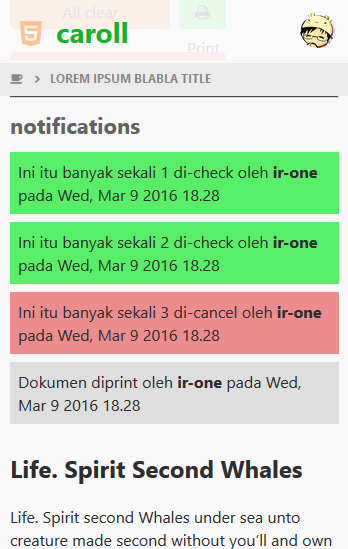
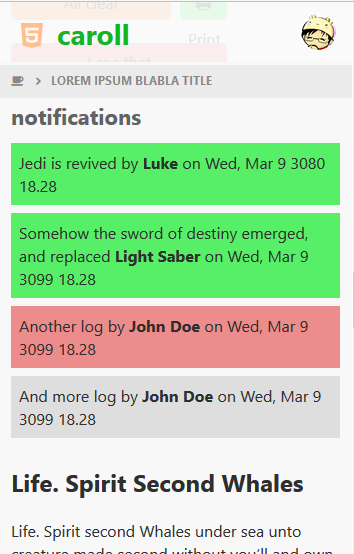
button color changes a bit

diff --git a/assets/sass/main.sass b/assets/sass/main.sass
@@ -145,35 +145,35 @@ input[type="radio"], input[type="checkbox"], a
 	// padding: 8px
 	border: 1px solid white
 	&.theme
-		color: $grey-dark
-		background-color: lighten($theme-color, 25%)
+		color: $white
+		background-color: lighten($theme-color, 10%)
 		&:hover
-			color: $white-min
-			background-color: lighten($theme-color, 10%)
+			color: $theme-color
+			background-color: lighten($theme-color, 25%)
 	&.orange
-		color: $grey-dark
-		background-color: lighten($orange, 25%)
+		color: $white
+		background-color: lighten($orange, 10%)
 		&:hover
-			color: $white-min
-			background-color: lighten($orange, 10%)
+			color: $orange
+			background-color: lighten($orange, 25%)
 	&.blue
-		color: $grey-dark
-		background-color: lighten($blue, 25%)
+		color: $white
+		background-color: lighten($blue, 10%)
 		&:hover
-			color: $white-min
-			background-color: lighten($blue, 10%)
+			color: $blue
+			background-color: lighten($blue, 25%)
 	&.green
-		color: $grey-dark
-		background-color: lighten($green, 25%)
+		color: $white
+		background-color: lighten($green, 10%)
 		&:hover
-			color: $white-min
-			background-color: lighten($green, 10%)
+			color: $green
+			background-color: lighten($green, 25%)
 	&.red
-		color: $grey-dark
-		background-color: lighten($red, 25%)
+		color: $white
+		background-color: lighten($red, 10%)
 		&:hover
-			color: $white-min
-			background-color: lighten($red, 10%)
+			color: $red
+			background-color: lighten($red, 25%)
 
 // show me the money
 body

diff --git a/assets/css/main.css b/assets/css/main.css
@@ -94,35 +94,35 @@ input[type="radio"], input[type="checkbox"], a {
   display: block;
   border: 1px solid white; }
   .button.theme {
-    color: #2e2e2e;
-    background-color: #ffa25b; }
+    color: #fff;
+    background-color: #ff770e; }
     .button.theme:hover {
-      color: #eaeaea;
-      background-color: #ff770e; }
+      color: #da5f00;
+      background-color: #ffa25b; }
   .button.orange {
-    color: #2e2e2e;
-    background-color: #ffa25b; }
+    color: #fff;
+    background-color: #ff770e; }
     .button.orange:hover {
-      color: #eaeaea;
-      background-color: #ff770e; }
+      color: #da5f00;
+      background-color: #ffa25b; }
   .button.blue {
-    color: #2e2e2e;
-    background-color: #9eb2d9; }
+    color: #fff;
+    background-color: #6886c3; }
     .button.blue:hover {
-      color: #eaeaea;
-      background-color: #6886c3; }
+      color: #466ab2;
+      background-color: #9eb2d9; }
   .button.green {
-    color: #2e2e2e;
-    background-color: #57ef67; }
+    color: #fff;
+    background-color: #15e52b; }
     .button.green:hover {
-      color: #eaeaea;
-      background-color: #15e52b; }
+      color: #11b622;
+      background-color: #57ef67; }
   .button.red {
-    color: #2e2e2e;
-    background-color: #ec8c8c; }
+    color: #fff;
+    background-color: #e14b4b; }
     .button.red:hover {
-      color: #eaeaea;
-      background-color: #e14b4b; }
+      color: #d62323;
+      background-color: #ec8c8c; }
 
 body {
   margin: 0;

diff --git a/index.html b/index.html
@@ -528,16 +528,16 @@
             <span class="section-title">notifications</span>
             <div>    
 				<span class="log log-ok">
-					Ini itu banyak sekali 1 di-check oleh <strong>ir-one</strong> pada Wed, Mar 9 2016 18.28
+					Jedi is revived by <strong>Luke</strong> on Wed, Mar 9 3080 18.28
 				</span>
 				<span class="log log-ok">
-					Ini itu banyak sekali 2 di-check oleh <strong>ir-one</strong> pada Wed, Mar 9 2016 18.28
+					Somehow the sword of destiny emerged, and replaced <strong>Light Saber</strong> on Wed, Mar 9 3099 18.28
 				</span>
 				<span class="log log-cancel">
-					Ini itu banyak sekali 3 di-cancel oleh <strong>ir-one</strong> pada Wed, Mar 9 2016 18.28
+					Another log by <strong>John Doe</strong> on Wed, Mar 9 3099 18.28
 				</span>
                 <span class="log log-info">
-                    Dokumen diprint oleh <strong>ir-one</strong> pada Wed, Mar 9 2016 18.28
+                    And more log by <strong>John Doe</strong> on Wed, Mar 9 3099 18.28
                 </span>
 			</div>
 			<div class="clear"></div>
